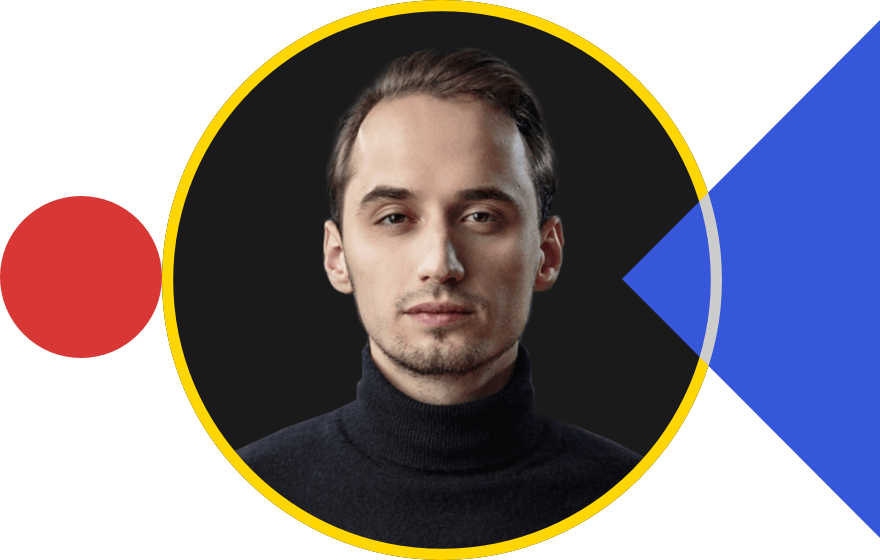
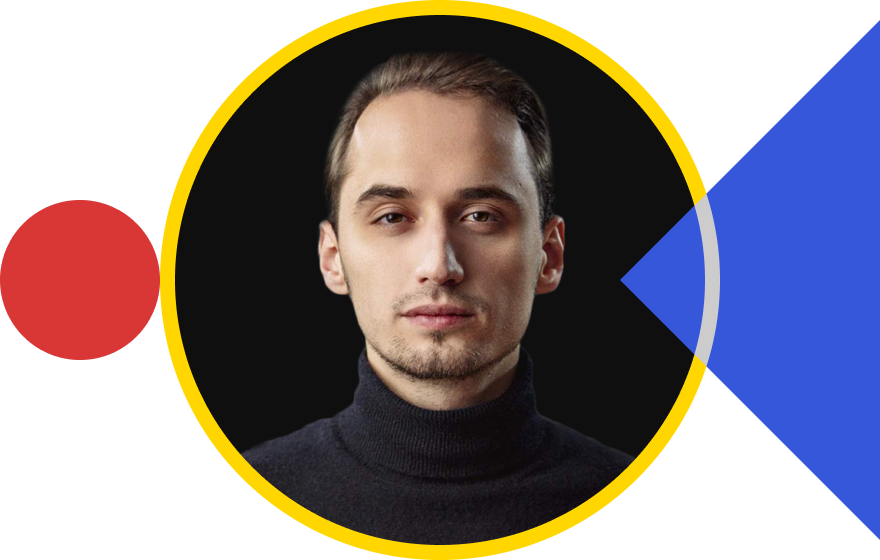
UI change

diff --git a/style.css b/style.css
@@ -11,7 +11,7 @@ html {
 }
 
 body {
-  background-color: #1a1a1a;
+  background-color: #0f0f0f;
 }
 
 .profile_picture {
@@ -56,12 +56,12 @@ header {
 }
 
 h3 {
-  color: #1a1a1a;
+  color: #0f0f0f;
   font-size: 18px;
 }
 
 h4 {
-  color: #1a1a1a;
+  color: #0f0f0f;
   font-size: 16px;
 }
 
@@ -80,7 +80,7 @@ a:hover {
 }
 
 .footer_color {
-  color: #1a1a1a;
+  color: #0f0f0f;
 }
 
 /*-- End Typo --*/
@@ -105,13 +105,14 @@ a:hover {
 }
 
 .card_container {
+  cursor: pointer;
   display: flex;
   padding: 15px;
   background-color: #ffd600;
   flex-direction: column;
   margin-bottom: 100px;
   align-items: center;
-  box-shadow: 2px 4px 16px 3px #000;
+  box-shadow: 12px -8px 0px 0px #3657d9;
 }
 
 .card_lines img {
@@ -131,7 +132,7 @@ a:hover {
 }
 
 .card_text_flex h2 {
-  color: #1a1a1a;
+  color: #000;
   margin-bottom: 0;
 }
 
@@ -157,7 +158,7 @@ a:hover {
 
 .vertical-line {
   left: 2px;
-  border-right: 4px solid #dddddd;
+  border-right: 7px solid #dddddd;
   height: 120px;
   margin-top: 90px;
   margin-bottom: 30px;
@@ -169,7 +170,7 @@ footer {
 
 .footer_links a,
 .footer_p {
-  color: #1a1a1a;
+  color: #0f0f0f;
   margin-right: 10px;
 }
 
@@ -190,14 +191,14 @@ footer {
 
 #copyright {
   font-size: 14px;
-  color: #1a1a1a;
+  color: #0f0f0f;
   height: 23px;
   margin-top: 30px;
   padding-bottom: 50px;
 }
 
 .btn-outline-primary-light {
-  border: solid 4px #1a1a1a;
+  border: solid 4px #0f0f0f;
   border-radius: 0;
   padding: 10px 30px;
 }
@@ -305,7 +306,7 @@ footer {
   .portfolio_1:hover,
   .portfolio_2:hover,
   .portfolio_3:hover {
-    box-shadow: 0px 8px 0 0 #3657d9;
+    box-shadow: 8px -6px 0px 0px #D93636;
   }
 
   .profile_picture {
